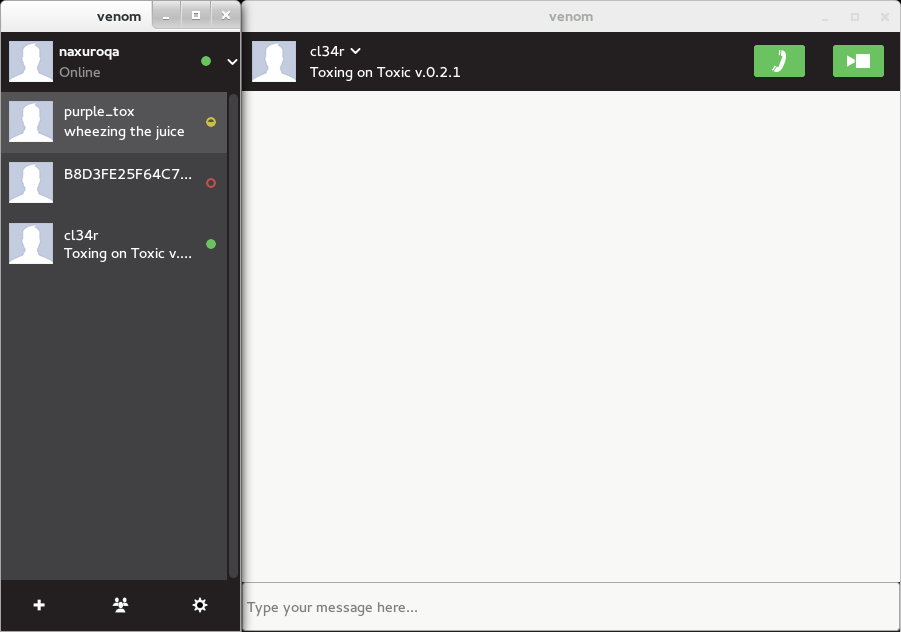
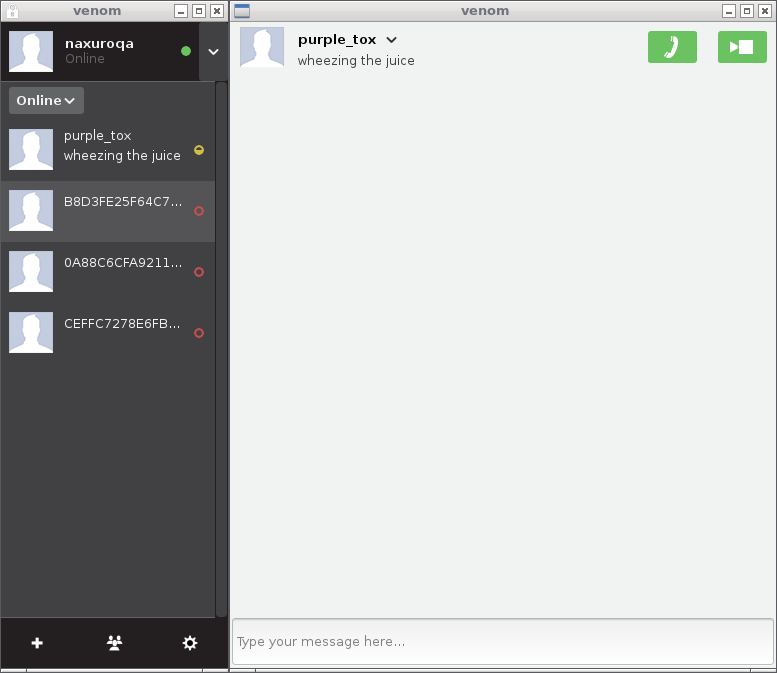
more ui refinement, new screenshot

Changed region(s): [[0.0, 0.0, 1.0, 1.0], [0.0309, 0.932, 0.0618, 0.962]]

diff --git a/theme/default.css b/theme/default.css
@@ -32,6 +32,7 @@
   -GtkWindow-resize-grip-default: false;
   -GtkWindow-resize-grip-height: 0;
   -GtkWindow-resize-grip-width: 0;
+  font: sans 10;
 }
 
 #contact_list {
@@ -51,25 +52,60 @@
   color: @foreground;
 }
 
-#contact_list .button:active,
-#contact_list .button:hover:active,
-#contact_list .button:focus:active{
+#contact_list .bottombutton:active,
+#contact_list .bottombutton:hover:active,
+#contact_list .bottombutton:focus:active{
   background-color: lighter (@treeview-selected);
   background-image: none;
+  border-style: none;
 }
 
-#contact_list .button:selected,
-#contact_list .button:hover {
+#contact_list .bottombutton:selected,
+#contact_list .bottombutton:hover {
   background-color: @treeview-selected;
   background-image: none;
-  border-color: @background;
-  border-image: none;
+  border-style: none;
 }
 
-#contact_list .button {
+#contact_list .bottombutton {
   background-color: @background;
   background-image: none;
   border-image: none;
+  border-style: none;
+}
+
+#contact_list .statusbutton:active,
+#contact_list .statusbutton:hover:active,
+#contact_list .statusbutton:focus:active{
+  background-color: lighter (@border-color);
+  background-image: none;
+  border-style: none;
+}
+
+#contact_list .statusbutton {
+  background-color: @border-color;
+  background-image: none;
+  border-image: none;
+  border-style: none;
+}
+
+#contact_list .statusbutton * {
+  text-shadow: none;
+}
+
+#contact_list .userbutton:active,
+#contact_list .userbutton:hover:active,
+#contact_list .userbutton:focus:active{
+  background-color: lighter (@treeview-background);
+  background-image: none;
+  border-style: none;
+}
+
+#contact_list .userbutton {
+  background-color: @treeview-background;
+  background-image: none;
+  border-image: none;
+  border-style: none;
 }
 
 #contact_list .cell {
@@ -78,8 +114,11 @@
   border: none;
 }
 
-#contact_list GtkTreeView {
+#contact_list GtkFrame {
   background-color: @treeview-background;
+  border: 0px solid @border-color;
+  border-top-width: 1px;
+  border-bottom-width: 1px;
 }
 
 #contact_list row:selected {
@@ -87,9 +126,7 @@
 }
 
 #contact_list GtkScrolledWindow {
-  border: 0px solid @border-color;
-  border-top-width: 1px;
-  border-bottom-width: 1px;
+  border: none;
 }
 
 #contact_list .scrollbar {
